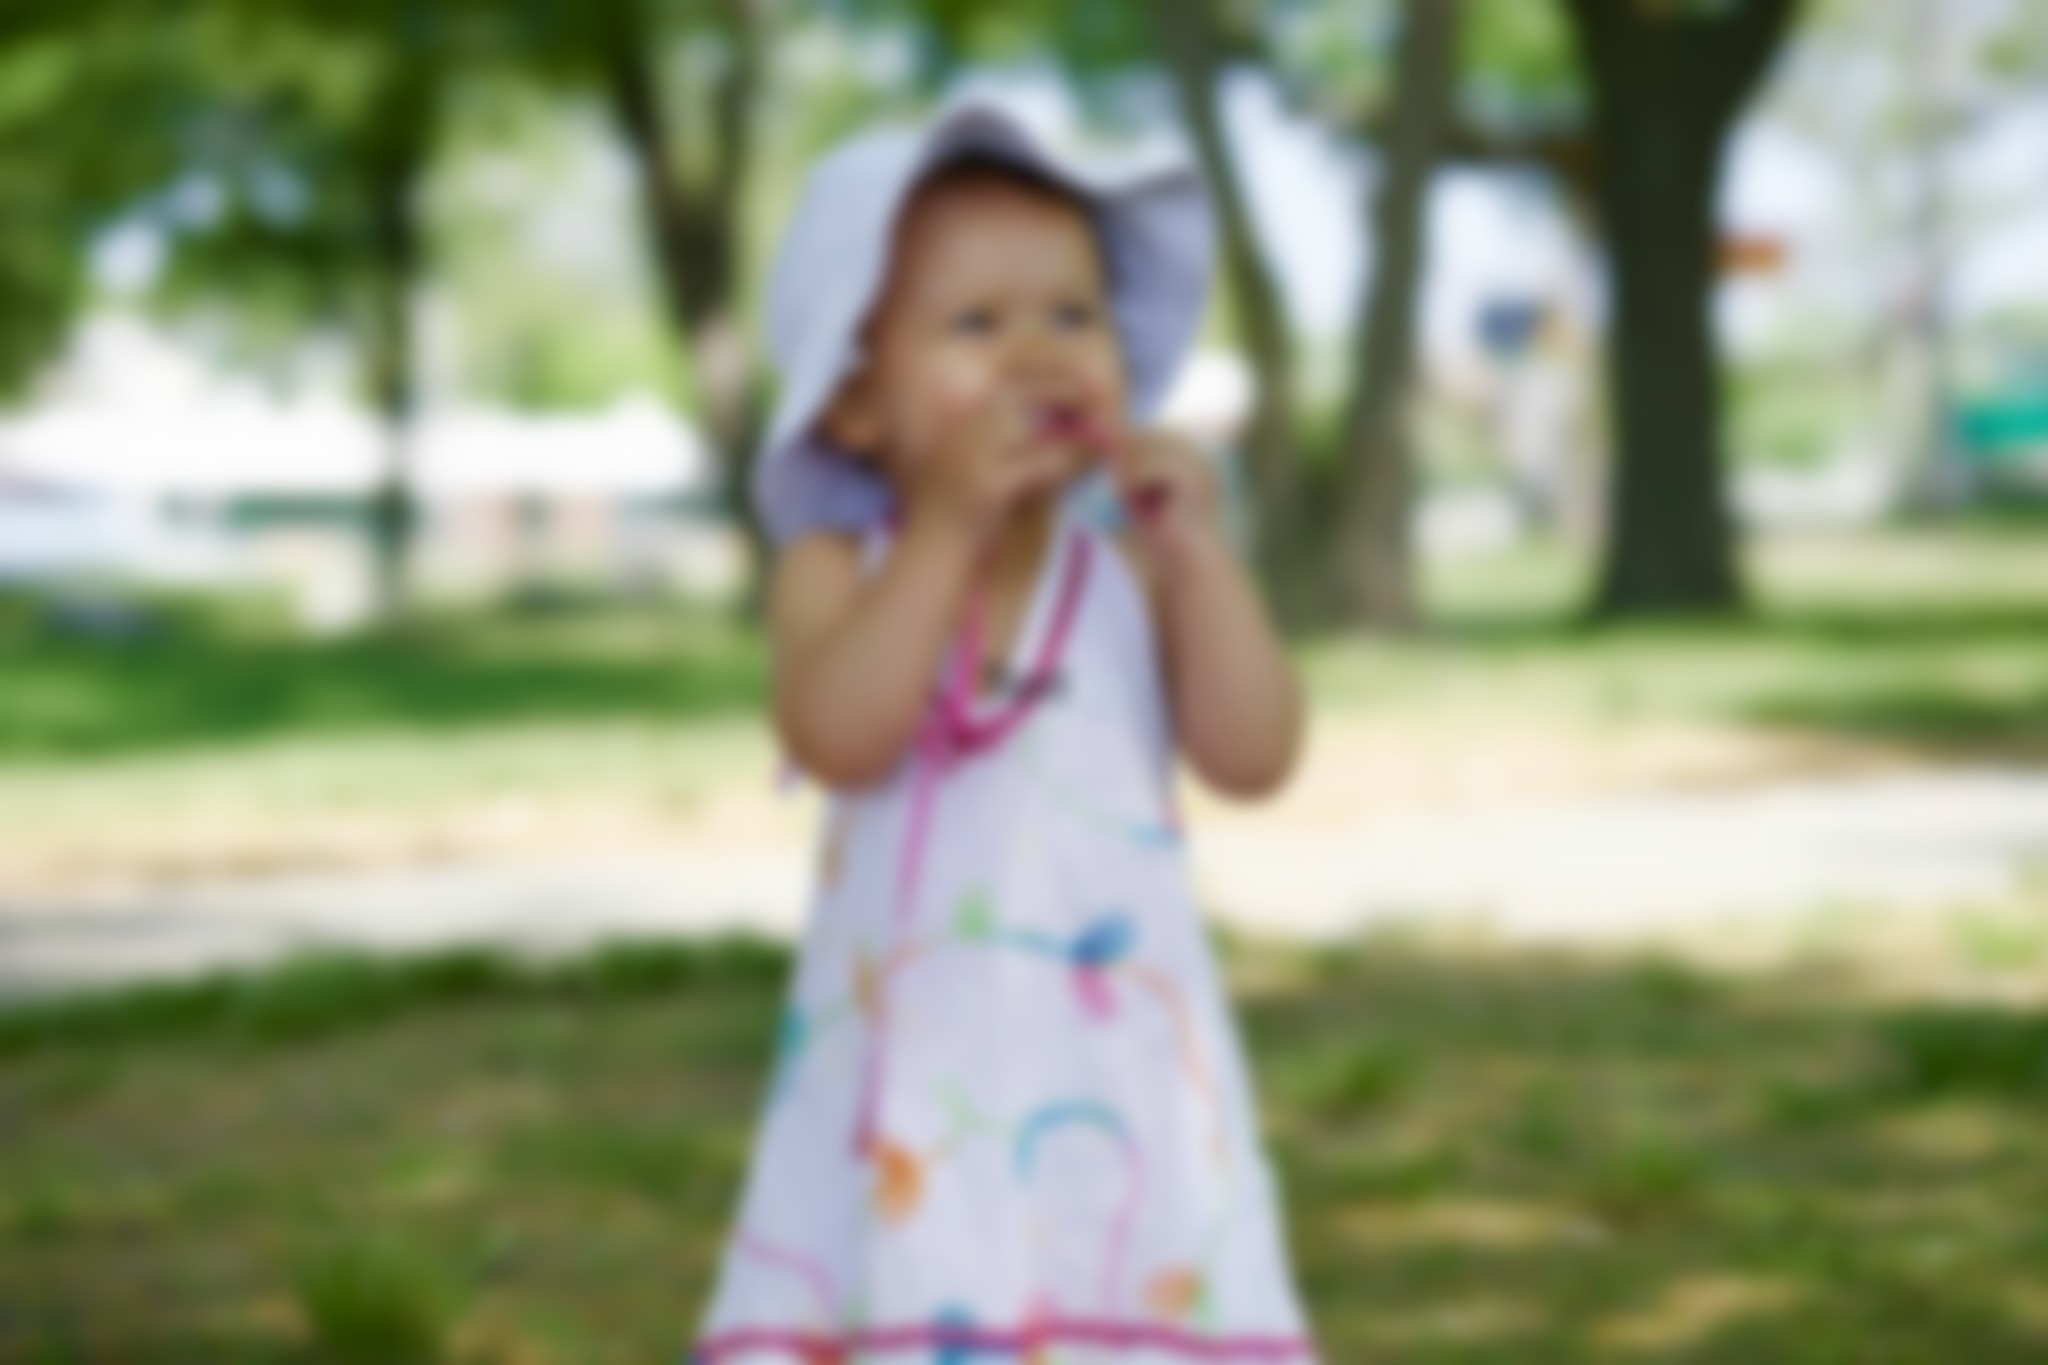
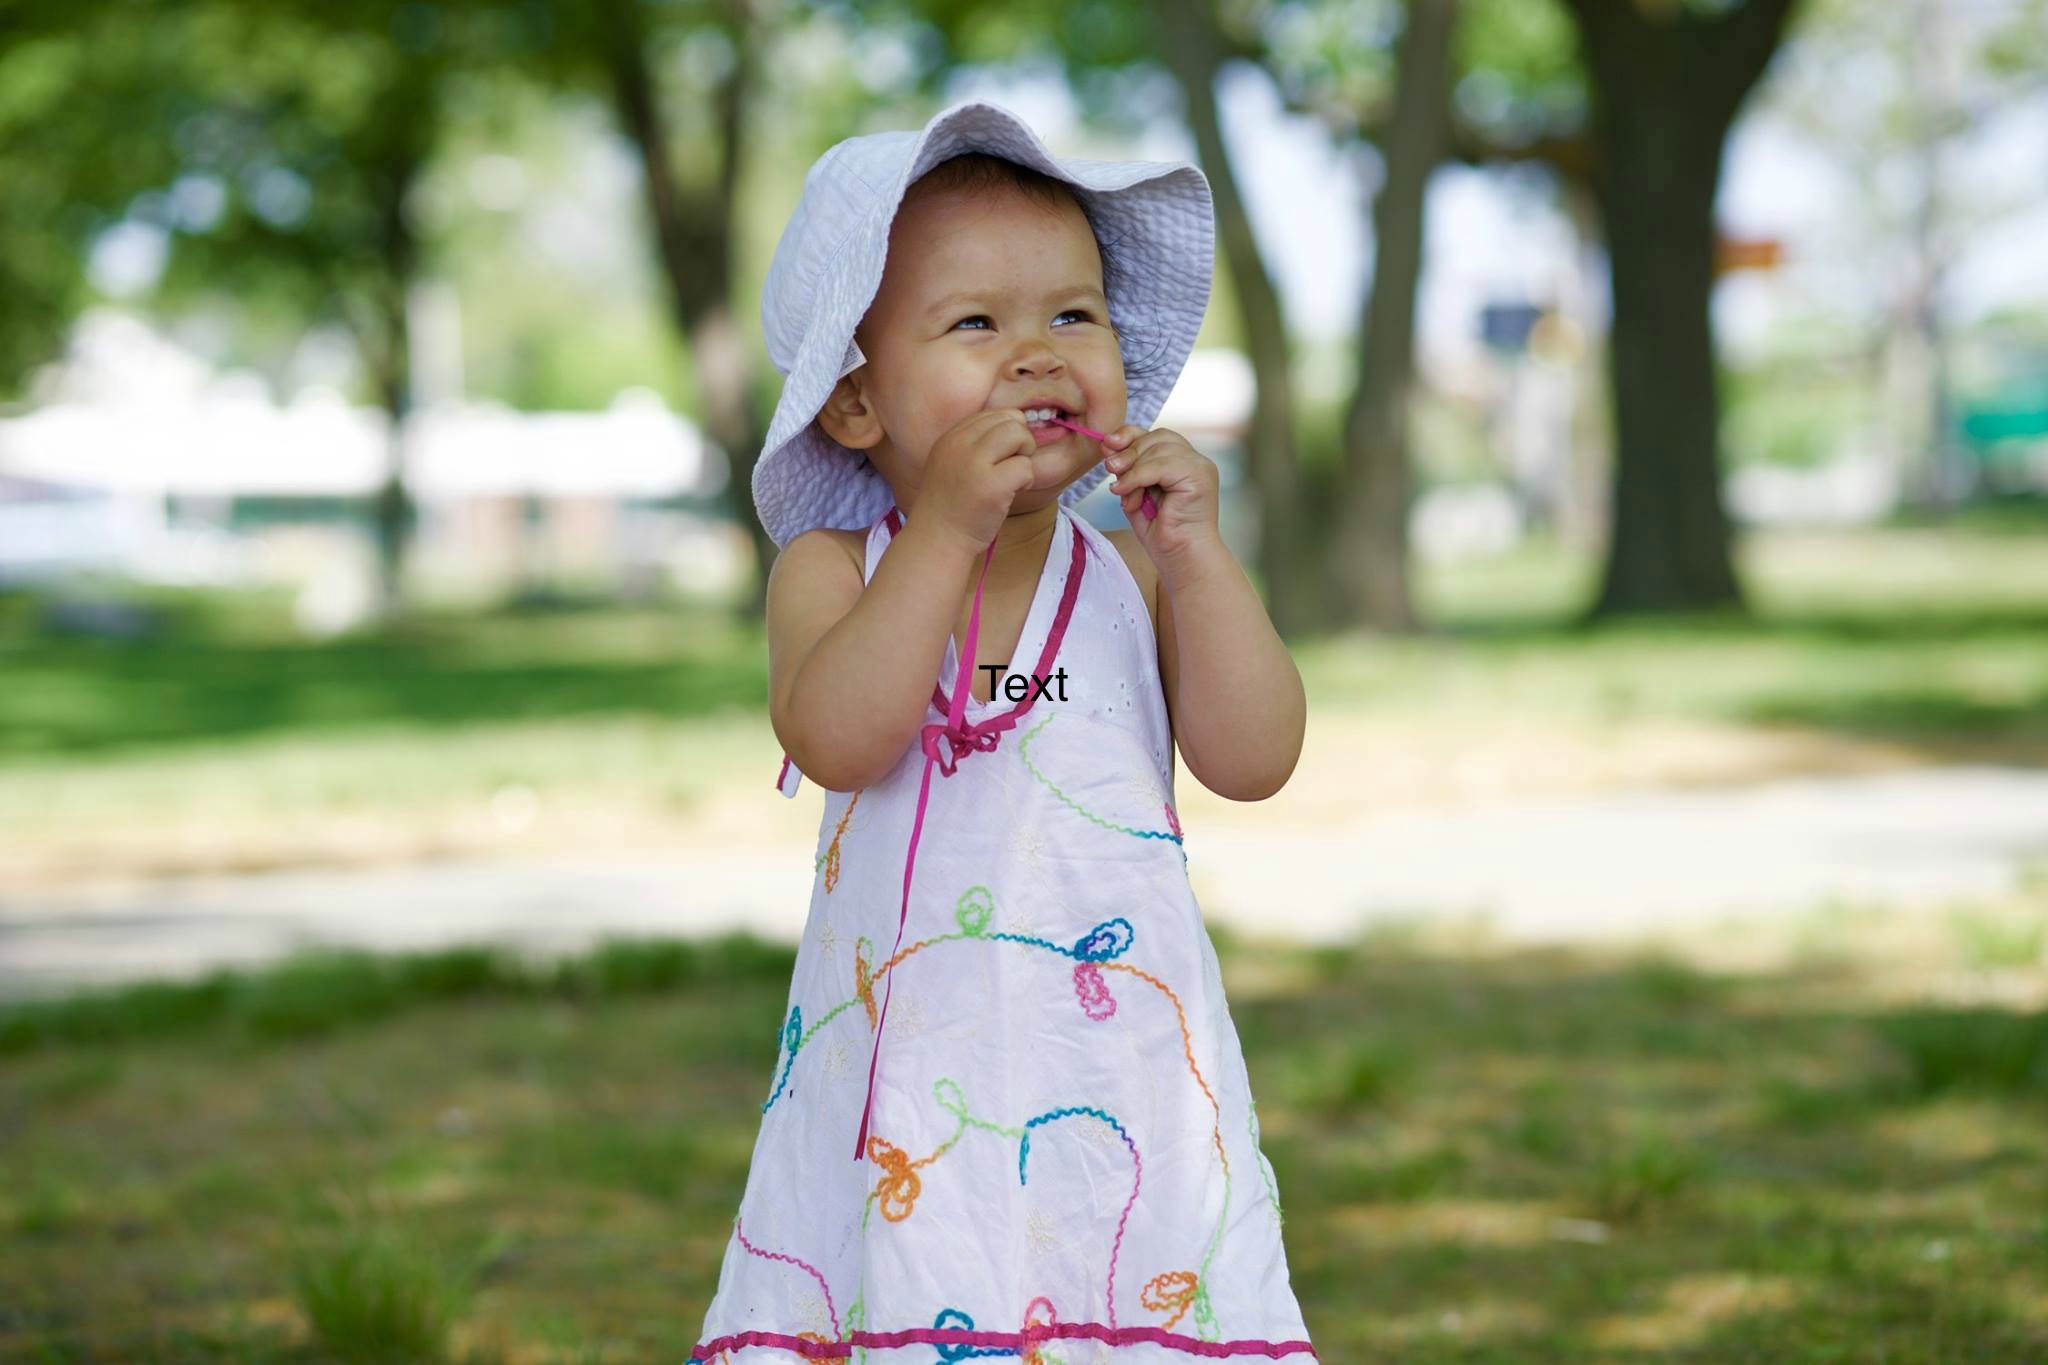
pic

diff --git a/index.html b/index.html
@@ -92,12 +92,17 @@ Although you can use them, for a more unique website, replace these images with 
         <div class="header-content">
             <div class="header-content-inner">
 
-                <h1>Scientist Mommy</h1>
-                <p class="lead text-light">  <b>A study to help us understand how personality, biology, and parenting shape children’s psychological well-being, and physical health.</b></p>
+                <h1 style="color:white;">Scientist Mommy</h1>
+              
+        
+               
+            
+      
+                
+            </div>  
 
-
-            </div>
-        </div>
+        </div>  
+      
     </header>
 
     <!-- Intro Section -->
@@ -197,7 +202,7 @@ Although you can use them, for a more unique website, replace these images with 
             <div class="container">
                 <h2 class="section-heading">Contact Us</h2>
 
-              <p><span class="glyphicon glyphicon-envelope"></span><br> AMH@cmc.edu <br> (909)702-8081</p>
+              <p><span class="glyphicon glyphicon-envelope"></span><br> AMH@cmc.edu <br> (909) 702-8081</p>
             </div>
         </div>
 

diff --git a/css/custom.css b/css/custom.css
@@ -27,9 +27,10 @@ header {
     position: relative;
     width: 100%;
     min-height: auto;
+
     text-align: center;
     color: #fff;
-    background-image: url('../images/E2.jpg');
+    background-image: url('../images/boy.jpg');
     background-position: center;
     -webkit-background-size: cover;
     -moz-background-size: cover;
@@ -42,20 +43,22 @@ header .header-content {
     width: 100%;
     padding: 100px 15px 70px;
     text-align: center;
+    margin-top: 50px;
 }
 
 header .header-content .header-content-inner h1 {
-    margin-top: 0;
+    margin-top: 220px;
     margin-bottom: 20px;
     font-size: 50px;
     font-weight: 300;
 }
 
 header .header-content .header-content-inner p {
-    margin-bottom: 50px;
+    margin-top: 20px;
+    margin-bottom: 20px;
     font-size: 16px;
     font-weight: 300;
-    color: rgba(255,255,255,1);
+    color: rgba(0,0,0,1);
 }
 
 @media(min-width:768px) {
@@ -212,6 +215,7 @@ header .header-content .header-content-inner p {
 
 .text-light {
     color: rgba(255,255,255,1);
+
 }
 
 .navbar-default {

diff --git a/overview.html b/overview.html
@@ -88,9 +88,21 @@ Although you can use them, for a more unique website, replace these images with 
     </nav>
 
     <!-- Header -->
-   
+    <section class="intro">
+        <div class="container">
+            <div class="row">
+                <div class="col-lg-8 col-lg-offset-2">
+
+                    <img src="whiteheart.png" alt="Icon" style="width:80px;height:80px;">
+                    <h2 class="section-heading"></h2>
+                    <p class="lead text-light">A study to help us understand how personality, biology, and parenting shape children’s psychological well-being, and physical health. </p>
+                </div>
+            </div>
+        </div>
+    </section>
 
      <!-- Content 1 -->
+     
     <section class="content">
         <div class="container">
             <div class="row">
